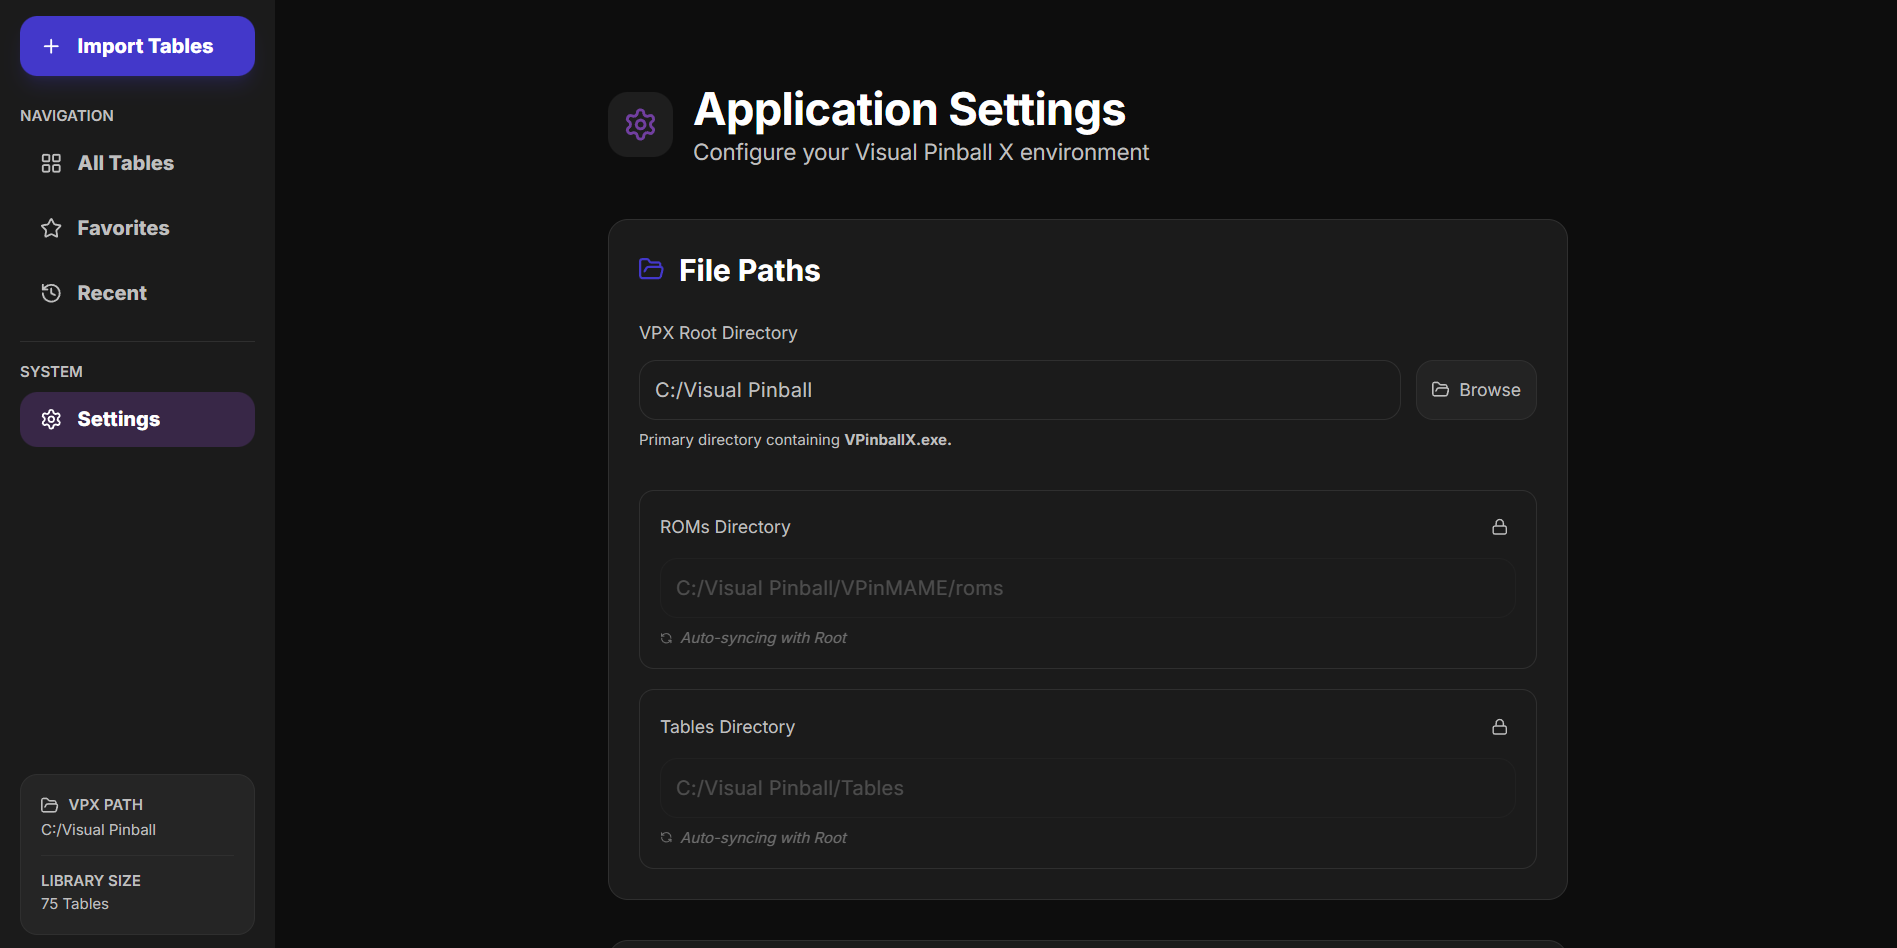
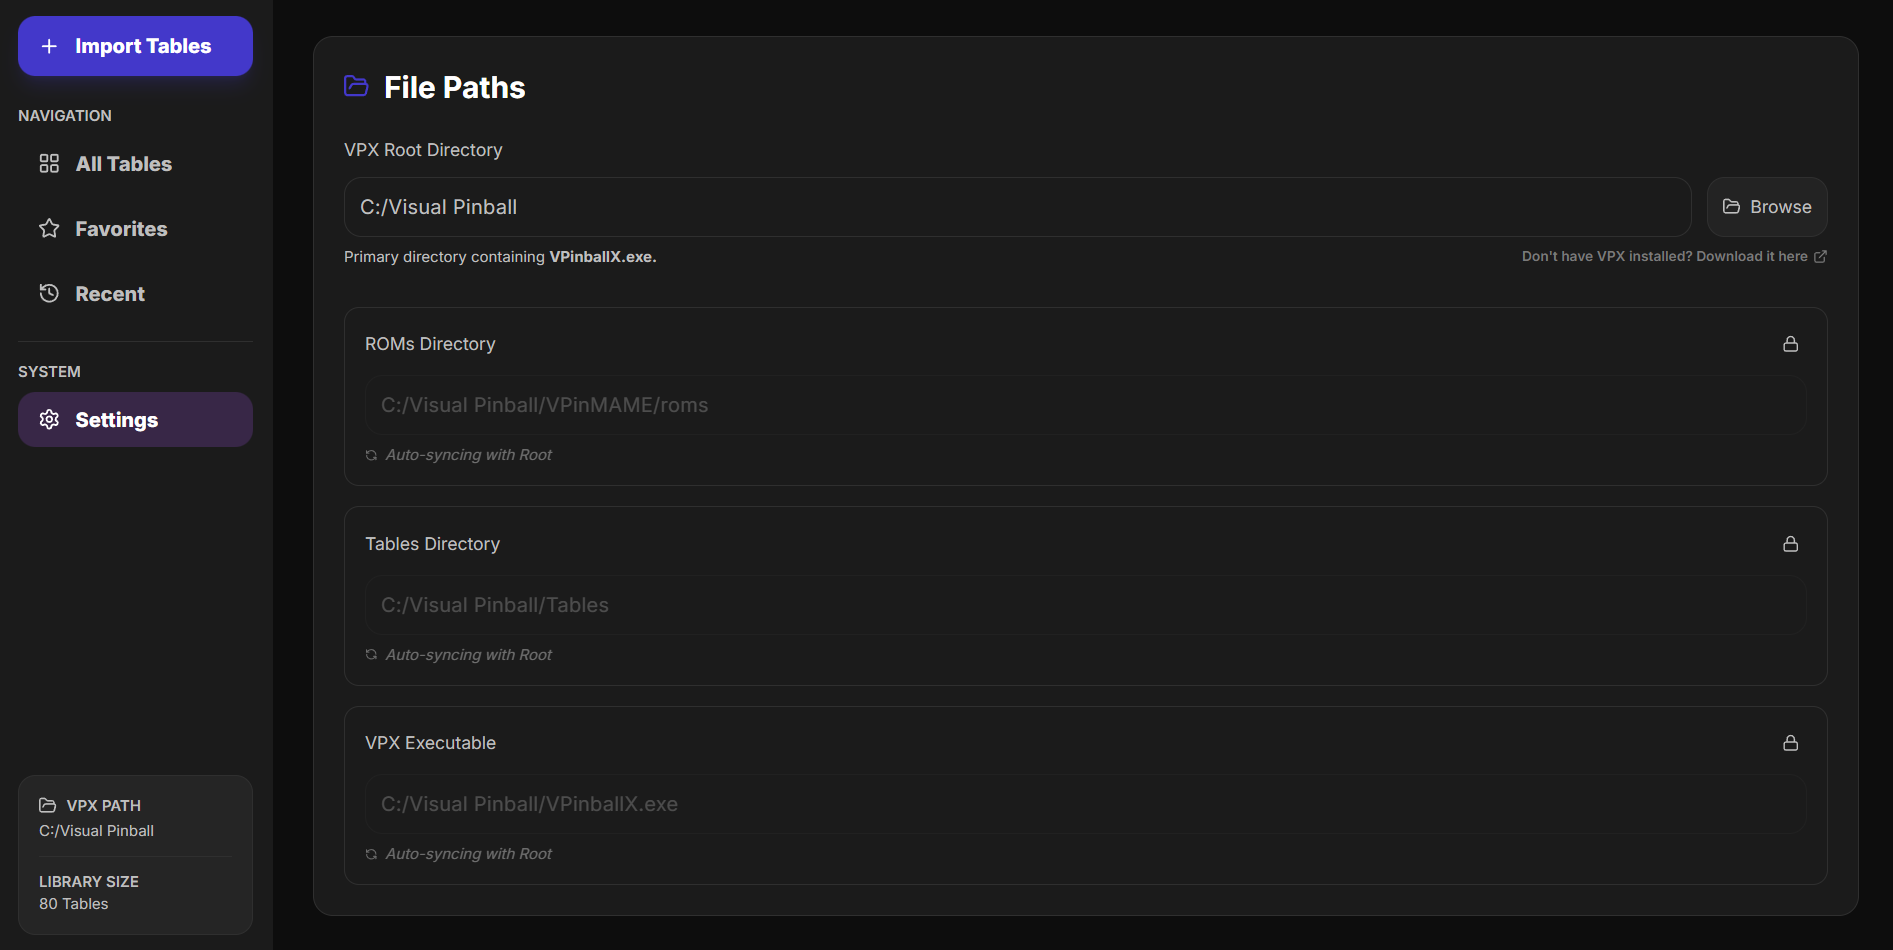
update readme

diff --git a/README.md b/README.md
@@ -108,6 +108,8 @@ If you already have an existing VPX setup, start with Scan Library first.
 - VPX root path
 - ROMs directory
 - Tables directory
+- VPX executable path (global/default launcher)
+- Direct link to VPX Releases (onboarding helper)
 
 ### Data Management
 
@@ -124,6 +126,11 @@ If you already have an existing VPX setup, start with Scan Library first.
 
 - **Clear Library Data** resets app metadata/list only.
 - It does **not** delete your actual VPX/ROM files.
+
+### VPX utilities
+
+- **Open VPX Folder** opens the configured VPX root folder for quick manual checks/cleanup.
+- **Run VPX** launches VPX without loading a table.
 
 ## Minimal run notes (dev)
 
